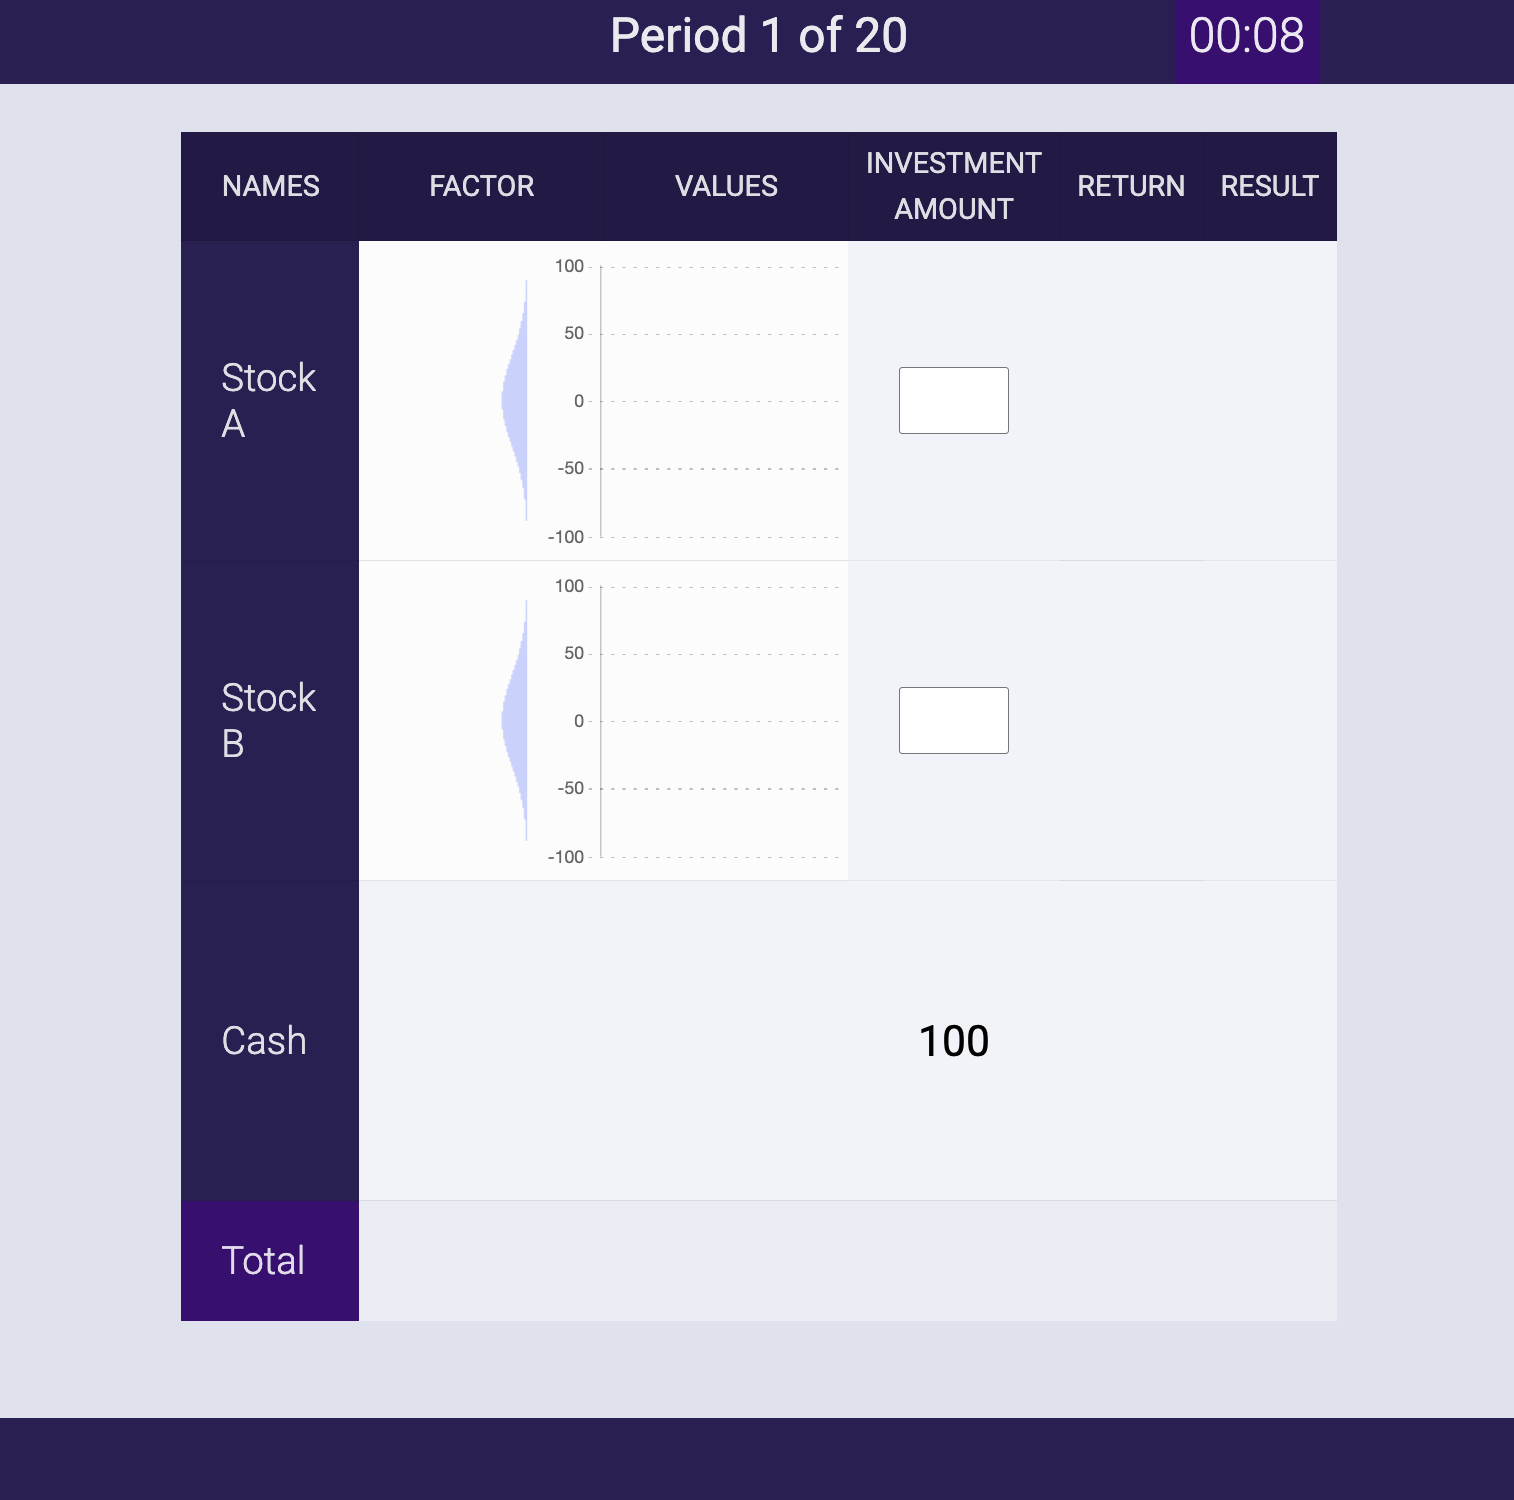
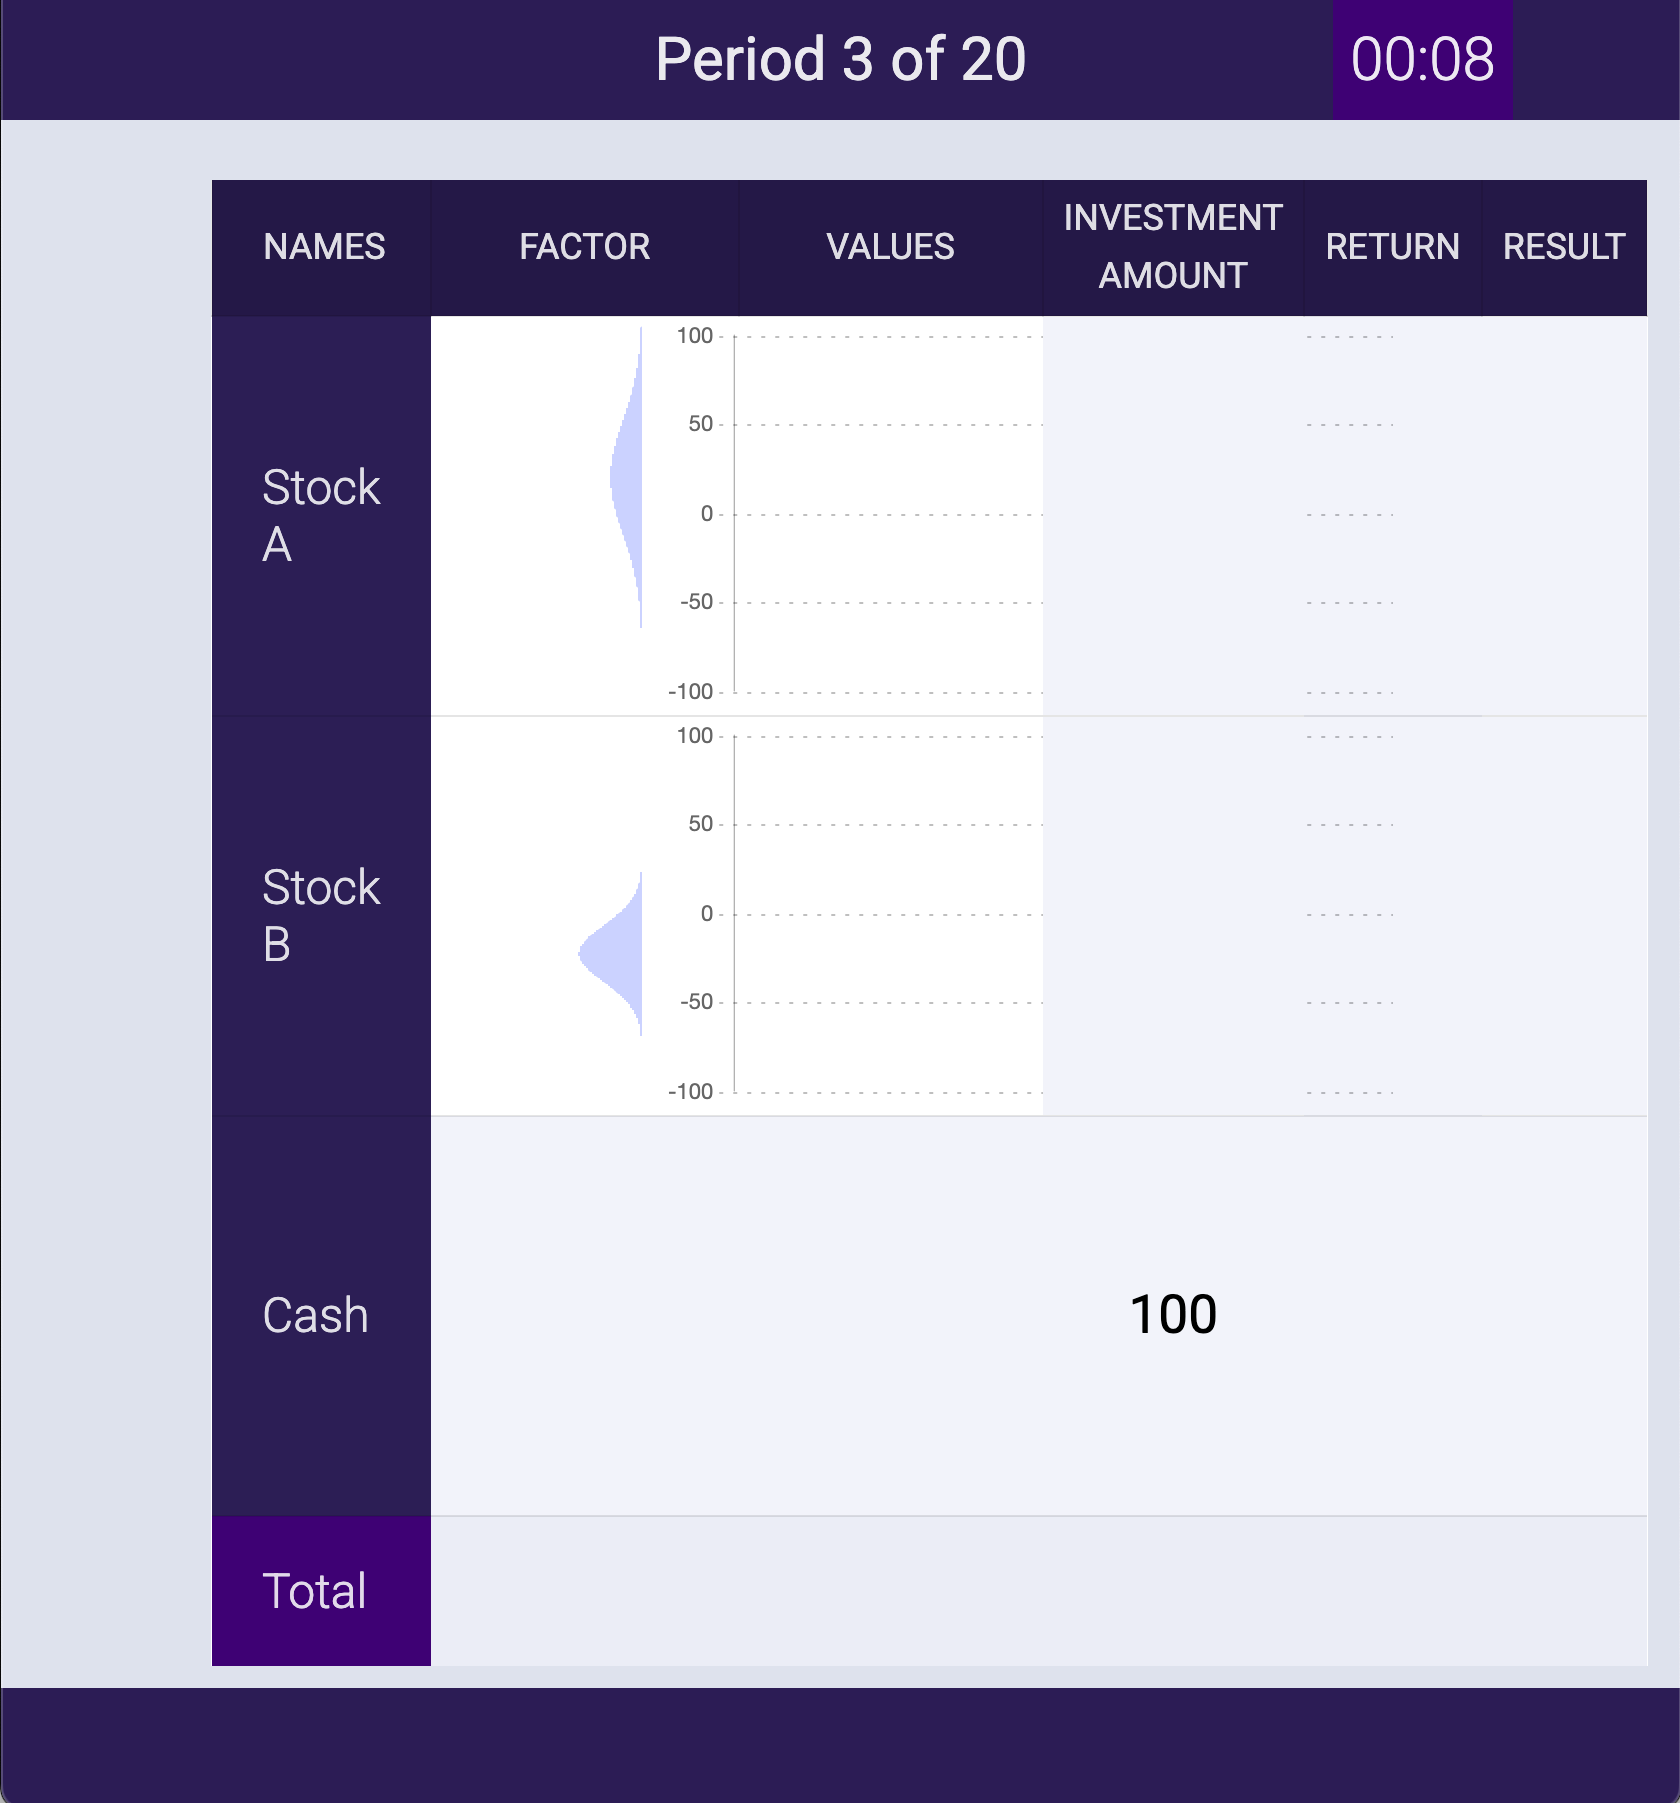
revamp instructions.  new images not fuzzy.  side-by-side layout reduces vertical scrolling

diff --git a/code/css/main.css b/code/css/main.css
@@ -324,3 +324,18 @@ input[type="text"] {
 .practice_on {
     margin-bottom: 70px;
 }
+
+.instr-layout {
+    display: flex;
+    justify-content: space-between;
+}
+
+.instr-layout div {
+    margin-right: 20px;
+    margin-left: 20px;
+    text-align: justify;
+}
+
+.jspsych-display-element {
+    width: 1100px;
+}
